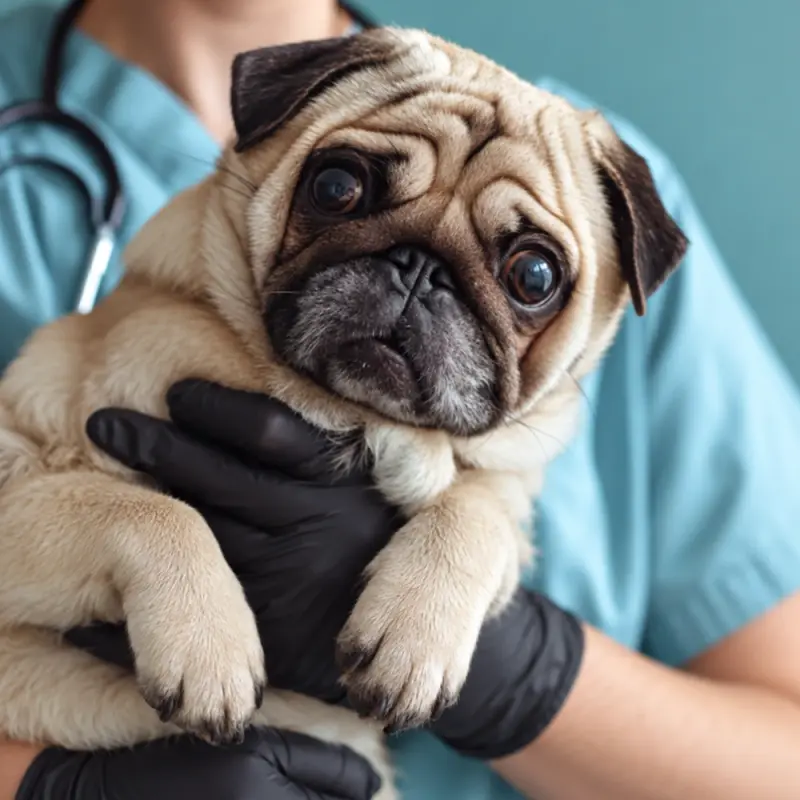
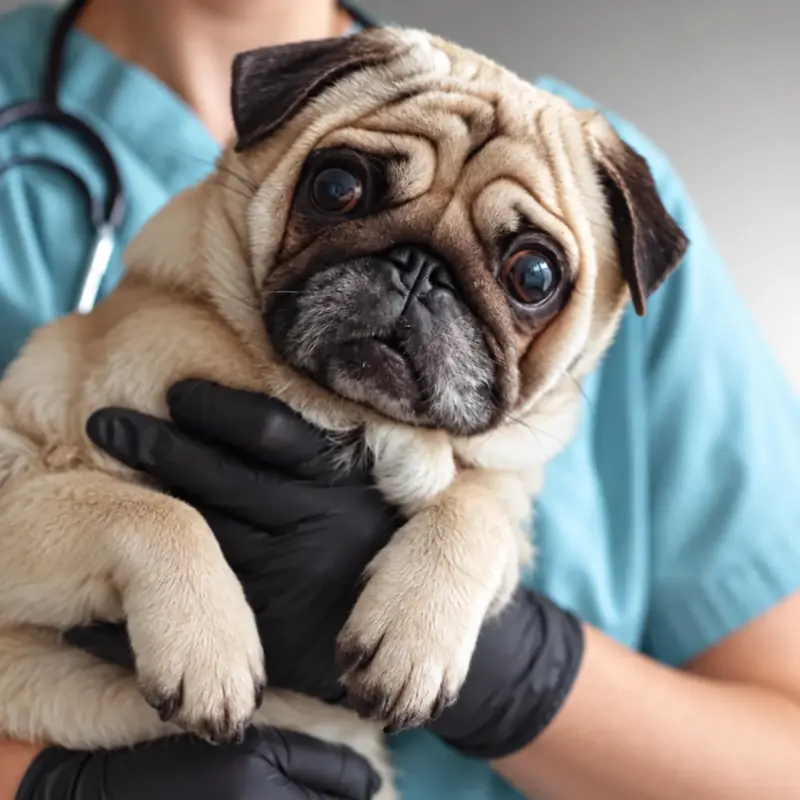
Atualiza as fotos dos cards Cães e Gatos (fundo cinza)

Changed region(s): [[0.4375, 0.0, 1.0, 0.5], [0.0, 0.0, 0.0938, 0.0312], [0.5625, 0.4375, 0.5938, 0.4688]]

diff --git a/index.html b/index.html
@@ -1084,7 +1084,7 @@
 <!-- CARDS CAES E GATOS -->
 <section class="sec-pets">
   <article class="pc pc--caes rv">
-    <img class="pc-img" src="img/card-caes.webp?v=2" width="800" height="800" alt="Pug no colo da veterinária" loading="lazy" decoding="async" />
+    <img class="pc-img" src="img/card-caes.webp?v=3" width="800" height="800" alt="Pug no colo da veterinária" loading="lazy" decoding="async" />
     <span class="pc-gigante" aria-hidden="true">cães</span>
     <div class="pc-vidro">
       <span class="pc-tag"><svg class="i"><use href="#i-tag"/></svg>Atendimento humanizado</span>
@@ -1095,7 +1095,7 @@
     </div>
   </article>
   <article class="pc pc--gatos rv" style="--d:.12s">
-    <img class="pc-img" src="img/card-gatos.webp?v=2" width="800" height="800" alt="Gato siamês" loading="lazy" decoding="async" />
+    <img class="pc-img" src="img/card-gatos.webp?v=3" width="800" height="800" alt="Gato siamês" loading="lazy" decoding="async" />
     <span class="pc-gigante" aria-hidden="true">gatos</span>
     <div class="pc-vidro">
       <span class="pc-tag"><svg class="i"><use href="#i-tag"/></svg>Desde 2010</span>
